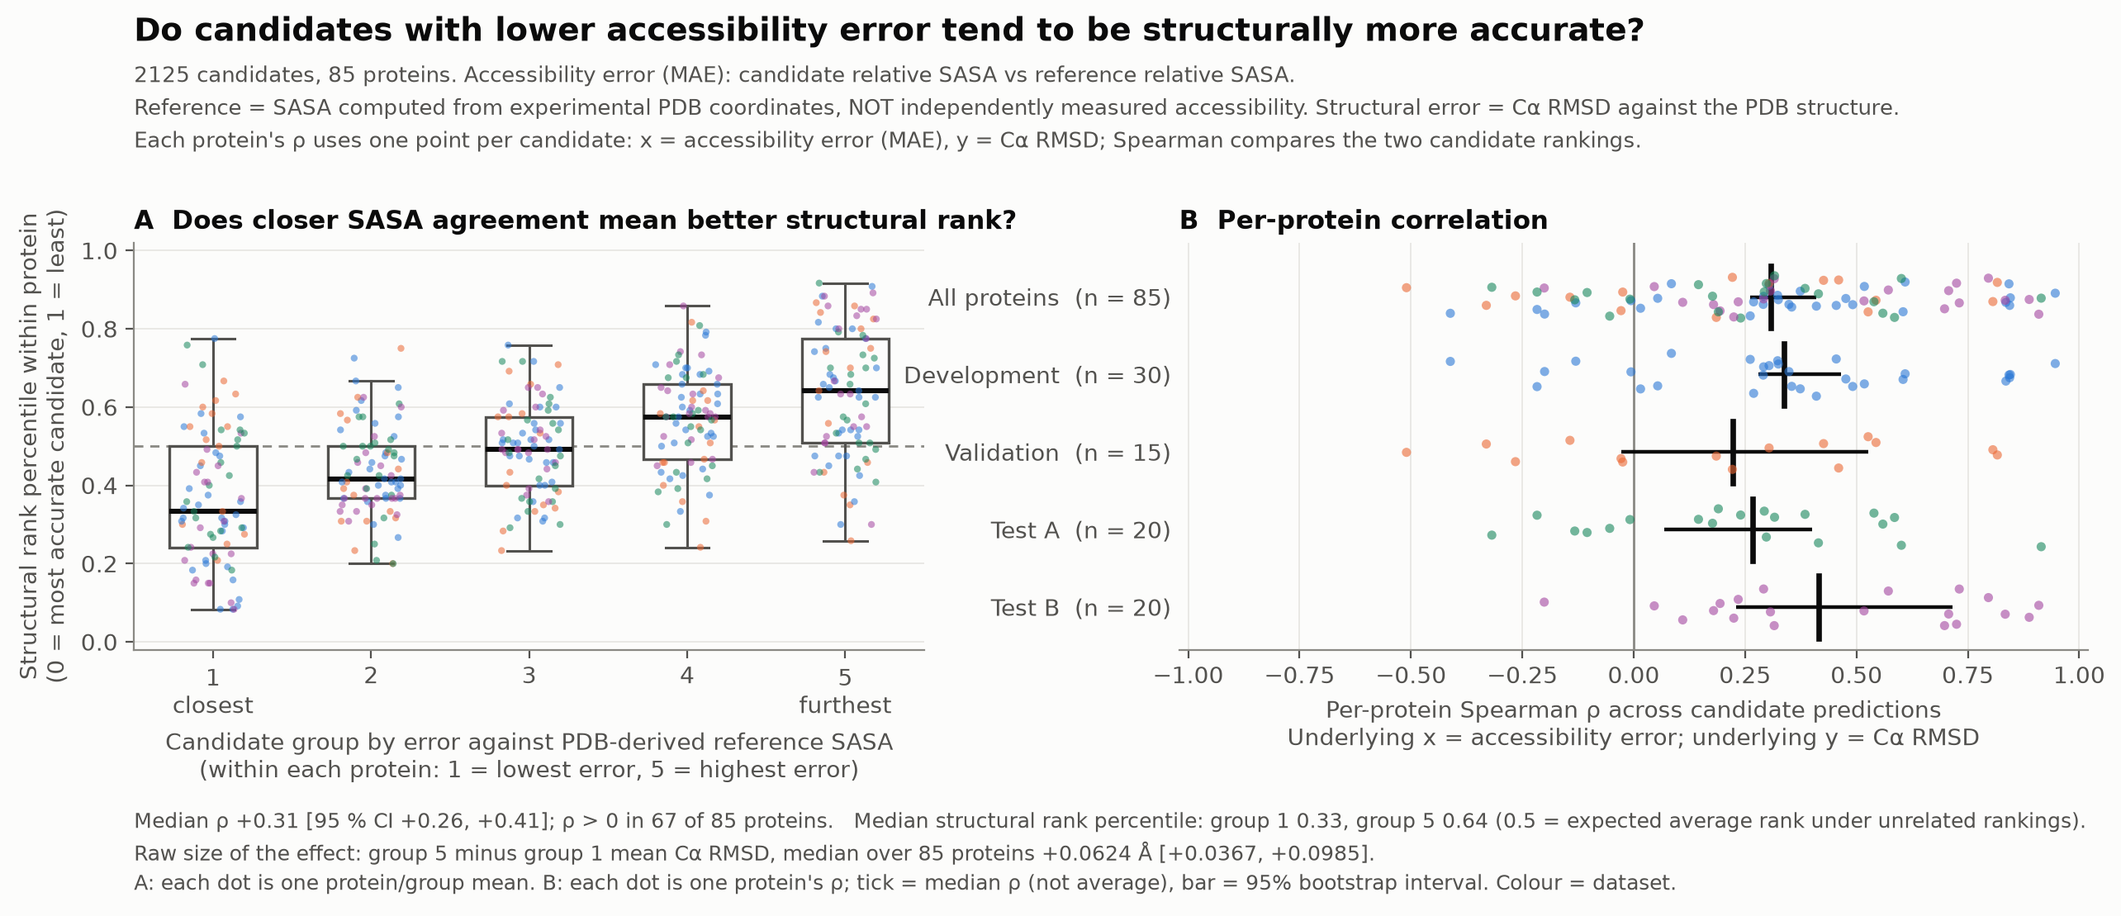
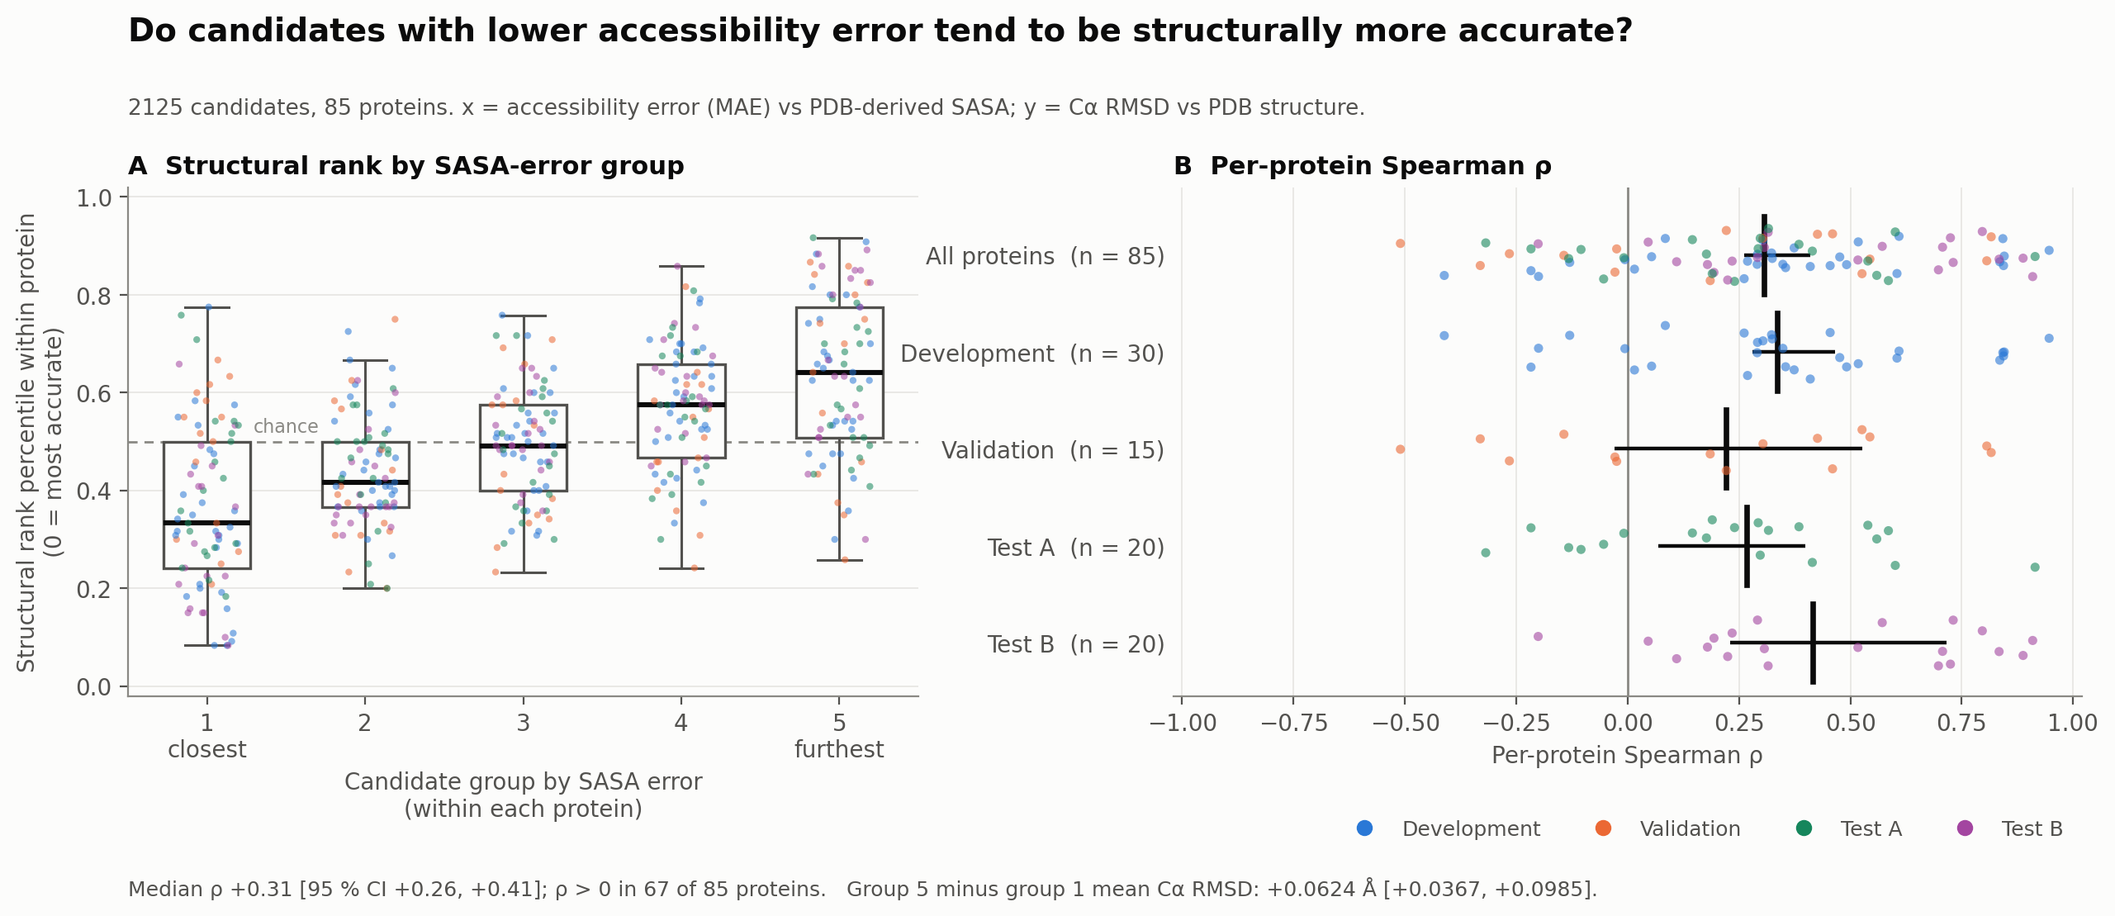
Declutter Stage 3 plot text and merge explanatory notes into plots README

diff --git a/stage3/plots/plot_controls.py b/stage3/plots/plot_controls.py
@@ -43,16 +43,16 @@ THEMES = {
                  dev="#3987e5", val="#d95926", test_a="#51c993", test_b="#d78bd0"),
 }
 CONTROL_ORDER = ["real", "shuffle", "reverse", "other_protein", "dropout:0.5", "dropout:0.2", "binary:0.2", "binary:median"]
-CONTROL_LABEL = {"real": "Unshuffled PDB-derived SASA", "shuffle": "shuffle (residue values permuted)", "reverse": "reverse along the sequence",
-                 "other_protein": "another protein's profile", "dropout:0.5": "keep 50 % of residues", "dropout:0.2": "keep 20 % of residues",
-                 "binary:0.2": "buried / exposed (threshold 0.2)", "binary:median": "buried / exposed (median split)",
-                 "random": "random pick (reference)", "oracle": "oracle: best candidate (reference)",
-                 "ranking_top1": "supplied ranking: top-ranked (reference)"}
+CONTROL_LABEL = {"real": "Unshuffled PDB-derived SASA", "shuffle": "shuffled residues", "reverse": "reversed sequence",
+                 "other_protein": "other protein's profile", "dropout:0.5": "keep 50 % of residues", "dropout:0.2": "keep 20 % of residues",
+                 "binary:0.2": "buried / exposed (0.2)", "binary:median": "buried / exposed (median)",
+                 "random": "random pick", "oracle": "oracle: best candidate",
+                 "ranking_top1": "supplied ranking: top-ranked"}
 ERR_LABEL = {"mae": "mean absolute error of relative accessibility", "corr": "1 − correlation of the accessibility profiles"}
 ERROR_NAME = {"mae": "MAE", "corr": "1 − r"}
 ERROR_EXPLANATION = {
-    "mae": "MAE compares relative SASA calculated from each candidate with relative SASA calculated from the experimental PDB structure.",
-    "corr": "r = Pearson correlation across residues: candidate relative SASA versus PDB-derived reference relative SASA. Error = 1 - r.",
+    "mae": "Error = MAE of relative SASA vs PDB-derived reference.",
+    "corr": "Error = 1 \u2212 r (Pearson correlation of relative SASA vs PDB-derived reference).",
 }
 PICK_RULE = {"mae": "lowest MAE", "corr": "lowest 1 − r"}
 METRIC_LABEL = {"rmsd_ca": "Cα RMSD", "lddt_ca": "1 − lDDT-Cα", "tm_score": "1 − TM-score"}
@@ -164,8 +164,8 @@ def overview(d, a, plt, c):
     rules = [x for x in ("ranking_top1", "random", "oracle") if d.row(d.sel, "all", x)]
     rows = controls + rules
     n_rows = len(rows)
-    fig, (ax, bx) = plt.subplots(1, 2, figsize=(13.0, 0.52 * n_rows + 3.6), sharey=True,
-                                 gridspec_kw=dict(wspace=0.06, left=0.25, right=0.985, top=0.79, bottom=0.28))
+    fig, (ax, bx) = plt.subplots(1, 2, figsize=(13.0, 0.52 * n_rows + 2.9), sharey=True,
+                                 gridspec_kw=dict(wspace=0.06, left=0.25, right=0.985, top=0.79, bottom=0.20))
     ys = {x: i for i, x in enumerate(rows)}
     real_n = {"rho": (d.row(d.summ, "all", "real") or {}).get("n_proteins"), "pct": (d.row(d.sel, "all", "real") or {}).get("n_proteins")}
 
@@ -206,10 +206,10 @@ def overview(d, a, plt, c):
     band = d.null_band("all", "rho", "median")
     band_s = d.null_band("all", "pct", "mean")
     panel(ax, d.summ, "median_rho", "ci95_lo", "ci95_hi", band, "rho",
-          f"Median of per-protein Spearman \u03c1 values (not their average)\nEach \u03c1: x = {ERROR_NAME[d.em]}, y = {METRIC_LABEL[m]}, across candidates",
+          "Median per-protein Spearman \u03c1",
           "A  Ranking agreement", 0.0)
     panel(bx, d.sel, "mean_pick_pct", "ci95_lo", "ci95_hi", band_s, "pct",
-          "mean structural rank percentile of the picked candidate\n(0 = best, 0.5 = random pick, 1 = worst; lower = better)",
+          "Mean rank percentile of picked candidate\n(lower = better)",
           "B  Selection by lowest accessibility error", 0.5, xlim=(-0.02, 1.02))
     ax.set_yticks(range(n_rows))
     ax.set_yticklabels([label(x) for x in rows])
@@ -218,9 +218,8 @@ def overview(d, a, plt, c):
         tick.set_fontweight("bold" if x == "real" else "normal")
     from matplotlib.lines import Line2D
     ax.legend(handles=[Line2D([], [], color=c["band"], lw=8, label="shuffle null, 95 % range (dashed = its mean)"),
-                       Line2D([], [], marker="o", ls="", color=c["text2"], label="control"),
                        Line2D([], [], marker="D", ls="", color=c["muted"], label="reference rule")],
-              loc="upper left", bbox_to_anchor=(-0.05, -0.32), fontsize=8.5, labelcolor=c["text2"], ncol=3)
+              loc="upper left", bbox_to_anchor=(0.0, -0.30), fontsize=8.5, labelcolor=c["text2"], ncol=3)
 
     rr, rs = d.row(d.summ, "all", "real"), d.row(d.sel, "all", "real")
     lines = []
@@ -234,17 +233,11 @@ def overview(d, a, plt, c):
         if rs.get("p_mean_pct_vs_shuffle"):
             t += f", p = {fnum(rs['p_mean_pct_vs_shuffle']):.4f}"
         t += f"  (n = {rs['n_proteins']})."
-        if rs.get("frac_real_better_than_ranking"):
-            t += f"  Better than {d.rank_label} top-1 in {100 * fnum(rs['frac_real_better_than_ranking']):.0f} % of {rs['n_proteins_vs_ranking']} proteins (ties count half)."
         lines.append(t)
-    lines.append("Controls alter SASA information or the residues used, not candidate structures or structural errors. Compare unshuffled SASA with the shuffle band.\n"
-                 "Proteins, not candidates, are the unit of the bootstrap and the null; n is shown only where a control has fewer proteins than `real`.")
     fig.text(0.02, 0.01, "\n".join(lines), fontsize=8.5, color=c["text2"], ha="left", va="bottom", linespacing=1.5)
     fig.suptitle(f"Does PDB-derived SASA help select accurate structures?  {ERROR_NAME[d.em]} vs {METRIC_LABEL[m]}", x=0.02, y=0.985,
                  ha="left", fontsize=14, fontweight="bold", color=c["text"])
-    fig.text(0.02, 0.90, ERROR_EXPLANATION[d.em] + " Lower is better; scores are averaged over four probe radii.\n"
-             f"{d.settings.get('n_analysed', len(d.entries))} proteins. Reference = SASA computed from experimental PDB coordinates, NOT independently measured accessibility.\n"
-             f"For each protein: one point per candidate, x = {ERROR_NAME[d.em]}, y = {METRIC_LABEL[m]}; Spearman \u03c1 compares their rankings. Panel A shows the median \u03c1 across proteins.",
+    fig.text(0.02, 0.905, ERROR_EXPLANATION[d.em] + f"  {d.settings.get('n_analysed', len(d.entries))} proteins; y = {METRIC_LABEL[m]}.",
              fontsize=9.5, color=c["text2"], ha="left", va="center", linespacing=1.5)
     return fig
 

diff --git a/stage3/plots/plot_accessibility_vs_accuracy.py b/stage3/plots/plot_accessibility_vs_accuracy.py
@@ -261,7 +261,7 @@ def figure1(rows, stats, by, a, plt, c):
     summary = summarise(stats, a, splits)
     bt = bin_table(by, in_sum)
     fig = plt.figure(figsize=(13.0, 5.6))
-    gs = fig.add_gridspec(1, 2, width_ratios=[1.0, 1.15], wspace=0.30, left=0.07, right=0.98, top=0.74, bottom=0.30)
+    gs = fig.add_gridspec(1, 2, width_ratios=[1.0, 1.15], wspace=0.30, left=0.07, right=0.98, top=0.80, bottom=0.25)
 
     # --- A: structural rank by accessibility-rank group, one value per protein and group
     ax = fig.add_subplot(gs[0])
@@ -279,11 +279,11 @@ def figure1(rows, stats, by, a, plt, c):
     ax.set_xticks(range(1, N_BINS + 1))
     ax.set_xticklabels(["1\nclosest", "2", "3", "4", "5\nfurthest"])
     ax.set_ylim(-0.02, 1.02)
-    ax.set_xlabel("Candidate group by error against PDB-derived reference SASA\n(within each protein: 1 = lowest error, 5 = highest error)")
-    ax.set_ylabel("Structural rank percentile within protein\n(0 = most accurate candidate, 1 = least)")
+    ax.set_xlabel("Candidate group by SASA error\n(within each protein)")
+    ax.set_ylabel("Structural rank percentile within protein\n(0 = most accurate)")
     ax.grid(axis="y", color=c["grid"], lw=0.6, zorder=0)
     ax.set_axisbelow(True)
-    ax.set_title("A  Does closer SASA agreement mean better structural rank?")
+    ax.set_title("A  Structural rank by SASA-error group")
     med = [np.median(v) if v else np.nan for v in data]
 
     # --- B: per-protein rho, one row per split
@@ -304,13 +304,17 @@ def figure1(rows, stats, by, a, plt, c):
     bx.set_yticklabels([f"{lab}  (n = {summary[('main', key)][0]})" for key, lab in rows_b])
     bx.set_ylim(len(rows_b) - 0.45, -0.7)
     bx.set_xlim(-1.02, 1.02)
-    bx.set_xlabel(f"Per-protein Spearman \u03c1 across candidate predictions\nUnderlying x = accessibility error; underlying y = {YSHORT[a.y]}")
+    bx.set_xlabel("Per-protein Spearman \u03c1")
     bx.grid(axis="x", color=c["grid"], lw=0.6, zorder=0)
     bx.set_axisbelow(True)
     bx.tick_params(axis="y", length=0)
     bx.spines["left"].set_visible(False)
-    bx.set_title("B  Per-protein correlation")
+    bx.set_title("B  Per-protein Spearman \u03c1")
 
+    from matplotlib.lines import Line2D
+    fig.legend(handles=[Line2D([], [], marker="o", ls="", color=colour_of(sp, c), label=SPLIT_LABELS.get(sp, sp)) for sp in splits if sp],
+               loc="lower right", bbox_to_anchor=(0.98, 0.075), ncol=len(splits), fontsize=9, labelcolor=c["text2"], frameon=False)
+    ax.text(1.5, 0.51, "chance", color=c["muted"], fontsize=8, va="bottom", ha="center")
     n, medr, lo, hi, npos = summary[("main", "all")]
     diffs = []
     for e in ents:
@@ -322,15 +326,11 @@ def figure1(rows, stats, by, a, plt, c):
     unit = " \u00c5" if a.y == "rmsd_ca" else ""
     fig.text(0.07, 0.03,
              f"Median \u03c1 {medr:+.2f} [95 % CI {lo:+.2f}, {hi:+.2f}]; \u03c1 > 0 in {npos} of {n} proteins.   "
-             f"Median structural rank percentile: group 1 {med[0]:.2f}, group 5 {med[-1]:.2f} (0.5 = expected average rank under unrelated rankings).\n"
-             f"Raw size of the effect: group 5 minus group 1 mean {YSHORT[a.y]}, median over {len(diffs)} proteins {dmed:+.3g}{unit} [{dlo:+.3g}, {dhi:+.3g}].\n"
-             "A: each dot is one protein/group mean. B: each dot is one protein's \u03c1; tick = median \u03c1 (not average), bar = 95% bootstrap interval. Colour = dataset.",
+             f"Group 5 minus group 1 mean {YSHORT[a.y]}: {dmed:+.3g}{unit} [{dlo:+.3g}, {dhi:+.3g}].",
              fontsize=9, color=c["text2"], ha="left", va="bottom", linespacing=1.5)
     fig.suptitle("Do candidates with lower accessibility error tend to be structurally more accurate?",
                  x=0.07, y=0.985, ha="left", fontsize=14, fontweight="bold", color=c["text"])
-    fig.text(0.07, 0.885, f"{len(rows)} candidates, {len(stats)} proteins. Accessibility error {SHORT_X[a.x].replace('accessibility error ', '')}: candidate relative SASA vs reference relative SASA.\n"
-             f"Reference = SASA computed from experimental PDB coordinates, NOT independently measured accessibility. Structural error = {YSHORT[a.y]} against the PDB structure.\n"
-             f"Each protein's \u03c1 uses one point per candidate: x = {SHORT_X[a.x]}, y = {YSHORT[a.y]}; Spearman compares the two candidate rankings.",
+    fig.text(0.07, 0.885, f"{len(rows)} candidates, {len(stats)} proteins. x = accessibility error ({SHORT_X[a.x].split('(')[-1].rstrip(')')}) vs PDB-derived SASA; y = {YSHORT[a.y]} vs PDB structure.",
              fontsize=9.5, color=c["text2"], ha="left", va="center", linespacing=1.5)
     return fig, bt
 

diff --git a/stage3/plots/README.md b/stage3/plots/README.md
@@ -4,28 +4,49 @@
 
 All figures combine 2,125 candidates from 85 proteins: development (30 proteins, blue), validation (15, orange), Test A (20, green) and Test B (20, purple). Each protein has 25 candidates. No RMSD-range threshold separates the proteins.
 
+| Figure | Question | Headline |
+|---|---|---|
+| `accessibility_vs_accuracy/fig1_accessibility_vs_accuracy.png` | Do low-MAE candidates rank better structurally? | Group 1 median structural-rank percentile 0.33 vs group 5 0.64; median per-protein rho +0.31 |
+| `controls/controls_mae_rmsd_ca_overview.png` | Does the signal survive controls, and does picking the lowest MAE help? | Real rho +0.31; selected percentile 0.35 vs 0.51 under shuffling |
+| `controls/controls_corr_rmsd_ca_overview.png` | Same, with `1 - r` as the accessibility error | Real rho +0.29; selected percentile 0.39 vs 0.51 under shuffling |
+
 ## Measures
 
-- **Accessibility MAE:** mean absolute difference between candidate and reference relative accessibility, averaged over four probe radii; lower is better.
-- **Accessibility 1 - r:** one minus the Pearson correlation between candidate and reference residue profiles, averaged over probe radii; lower means closer exposure patterns.
+- **Reference accessibility:** relative SASA computed from the experimental PDB coordinates, **not** independently measured accessibility. The plots no longer repeat this, so keep it in mind when reading them.
+- **Accessibility MAE:** mean absolute difference between candidate and reference relative accessibility, averaged over four probe radii; lower is better. It reflects the actual SASA values, so a constant offset counts as error.
+- **Accessibility 1 - r:** one minus the Pearson correlation between candidate and reference residue profiles, averaged over probe radii; lower means closer exposure patterns. It ignores offset and scale, so it can disagree with MAE about which candidate is closer.
 - **Structural error:** C-alpha RMSD against the experimental structure, in angstroms; lower is better.
-- **Ranking agreement:** within each protein, Spearman rho between accessibility error and RMSD across its candidates. Positive rho supports the hypothesis. This is distinct from the residue-profile Pearson correlation used in `1 - r`.
+- **Structural rank percentile:** a candidate's rank by RMSD within its own protein, scaled so 0 = best candidate, 0.5 = middle, 1 = worst. It shows ordering, not RMSD differences in angstroms.
+- **Ranking agreement:** within each protein, Spearman rho between accessibility error and RMSD across its 25 candidates. Positive rho supports the hypothesis. This is distinct from the residue-profile Pearson correlation used in `1 - r`.
+- **Unit of analysis:** the protein. Candidates of one protein share a sequence and a reference, so bootstraps, nulls and medians are taken over proteins, not over the 2,125 candidates.
 
 ## Reading the Figures
 
-`accessibility_vs_accuracy/fig1_accessibility_vs_accuracy.png` answers the main question in two panels:
+### Fig 1
 
-- **Panel A:** within each protein, group candidates from lowest to highest accessibility error into five rank groups. Each dot is that protein/group's mean structural-rank percentile; the boxes summarise proteins. Lower is better (0 = best candidate, 1 = worst); 0.5 is the expected average under unrelated rankings. In this dataset every group contains five candidates; average-rank ties can make group sizes unequal in future datasets.
-- **Panel B:** each dot is one protein's Spearman rho, grouped by dataset. For each protein, the underlying candidate-level x is accessibility error and y is C-alpha RMSD. The tick is the median rho across proteins, not their average; the bar is its 95% bootstrap interval. Each protein appears in both the all-protein row and its dataset row.
-- The caption's raw effect size is the median, across proteins, of group 5 mean RMSD minus group 1 mean RMSD. Its positive value (+0.0624 angstroms) supports the expected direction but indicates a small typical absolute difference; it is not a top-1 gain over OpenFold.
+- **Panel A:** within each protein, sort the 25 candidates by accessibility error and split them into five groups of five (group 1 = closest to the reference, group 5 = furthest). Each dot is that protein/group's mean structural-rank percentile; the boxes summarise the 85 proteins and the black line is the median. The dashed line at 0.5 is chance (unrelated rankings). Average-rank ties can make group sizes unequal in future datasets.
+- **Panel B:** each dot is one protein's Spearman rho, grouped by dataset; each protein appears in the all-protein row and in its dataset row. The tick is the median rho across proteins, not their average; the bar is its 95% bootstrap interval, which describes uncertainty in the median, not the spread of individual proteins.
+- **Footer:** median rho +0.31 [95% CI +0.26, +0.41], positive in 67 of 85 proteins. The raw effect is the median, across proteins, of group 5 mean RMSD minus group 1 mean RMSD: +0.0624 angstroms [+0.0367, +0.0985]. It supports the expected direction but is a small typical absolute difference, and it is not a top-1 gain over OpenFold.
 
-`controls/` contains two figures: `controls_mae_rmsd_ca_overview.png` and `controls_corr_rmsd_ca_overview.png`. Reference means relative SASA computed from experimental PDB coordinates, not independently measured accessibility. Pearson r compares candidate and reference SASA across residues; `1 - r` is an accessibility error, not a correlation with RMSD.
+### Controls
 
-- **Panel A, ranking agreement:** one rho per protein, correlating accessibility error (MAE or `1 - r`) with RMSD across its 25 candidates; dots show the median of these rhos. Positive is the expected direction. Horizontal lines are 95% bootstrap intervals over proteins. The three selection-only reference rows are blank here because they do not define an accessibility error across candidates.
-- **Panel B, selection:** choose the lowest-accessibility-error candidate for each protein, then average its structural-rank percentile across proteins. Lower is better: 0 = best available candidate, 1 = worst, 0.5 = expected random rank. The supplied ranking selects OpenFold's top-ranked candidate; the oracle selects the lowest actual RMSD using the known PDB structure.
-- In both panels the grey band is the 95% shuffle-null range of the aggregate statistic, not a bootstrap interval; the dashed line is its mean. Compare unshuffled SASA against this null. Ranks show ordering, not RMSD differences in angstroms.
+Each control figure has the same rows in two aligned panels, with Spearman rho and selection computed as above.
 
-Shuffling/reversal/wrong-protein profiles disrupt positional information. Keeping fewer residues tests sparsity. Buried/exposed controls test whether coarse labels retain useful information instead of needing precise accessibility values. All aggregate summaries remain pooled across datasets; colours alone do not establish a separate test-set result.
+- **Panel A, ranking agreement:** dots are the median of the per-protein rhos; horizontal lines are 95% bootstrap intervals over proteins. The three reference rows at the bottom are blank here because they do not define an accessibility error across candidates.
+- **Panel B, selection:** choose the lowest-accessibility-error candidate for each protein, then average its structural-rank percentile across proteins. Lower is better; 0.5 is a random pick.
+- **Grey band:** the 95% shuffle-null range of the aggregate statistic; the dashed line is its mean. It is not a bootstrap interval. Compare unshuffled SASA against this band, not against 0 or 0.5.
+
+| Row | What changes | Why it is included |
+|---|---|---|
+| Unshuffled PDB-derived SASA | nothing | main condition |
+| Shuffled residues | residue values permuted | breaks the residue-to-exposure mapping |
+| Reversed sequence | profile reversed along the sequence | breaks positional correspondence but keeps the values |
+| Other protein's profile | another protein's profile substituted | tests target specificity |
+| Keep 50% / 20% of residues | fewer residues scored | tests sparse coverage |
+| Buried / exposed (0.2, median) | profile reduced to two labels | tests whether coarse labels are enough |
+| Supplied ranking, random pick, oracle | selection rules, not SASA controls | OpenFold's top-ranked candidate; a random candidate (about 0.5); the lowest actual RMSD, using the known PDB structure (0 by construction) |
+
+The controls change the accessibility information or the residues used, not the candidate structures or their structural errors. All aggregate summaries remain pooled across datasets; colours alone do not establish a separate test-set result.
 
 ## Results and Interpretation
 
@@ -37,9 +58,16 @@ Shuffling/reversal/wrong-protein profiles disrupt positional information. Keepin
 | Shuffle mean selection percentile | 0.51 | 0.51 |
 | Win rate versus OpenFold top-ranked, ties count half | 68% | 59% |
 
-Real-versus-shuffle comparisons give p = 0.0001 for ranking agreement with either error, and p = 0.0001 / 0.0003 for MAE / 1 - r selection, as reported by the run. These are aggregate shuffle comparisons, not tests of superiority over OpenFold. The MAE scatter analysis has median rho +0.307 (95% bootstrap interval +0.262 to +0.410), with positive rho in 67 of 85 proteins.
+Real-versus-shuffle comparisons give p = 0.0001 for ranking agreement with either error, and p = 0.0001 / 0.0003 for MAE / 1 - r selection, as reported by the run. These are aggregate shuffle comparisons, not tests of superiority over OpenFold, and not a test of MAE against `1 - r`; the MAE advantage is descriptive only (+0.02 rho, -0.04 percentile) and would need a paired protein-level comparison. The win rates and the supplied-ranking row are no longer printed on the plots.
 
-**Answer:** the results support position-specific accessibility as a useful candidate-ranking signal, with exceptions and modest aggregate effects. Reference accessibility is calculated from the experimental structure: this is a best-case information-content check, not proof that measured accessibility or accessibility-guided diffusion will improve predictions.
+**Answer:** the results support position-specific accessibility as a useful candidate-ranking signal, with exceptions and modest aggregate effects. Shuffled, reversed and wrong-protein profiles fall to about zero; keeping 20-50% of residues or using buried/exposed labels keeps a weaker positive signal.
+
+## Limitations
+
+- Reference accessibility is calculated from the experimental structure: this is a best-case information-content check, not proof that measured accessibility or accessibility-guided diffusion will improve predictions.
+- Median rho of about 0.3 means many within-protein orderings still disagree. A mean selected percentile of 0.35 is better than random but far from the oracle's 0.
+- The angstrom gain is small (+0.0624 A), and selecting an existing candidate is reranking, not generating better structures.
+- Development, validation and test sets are small; do not read dataset-level medians as separate generalisation results.
 
 ## Regenerate
 
